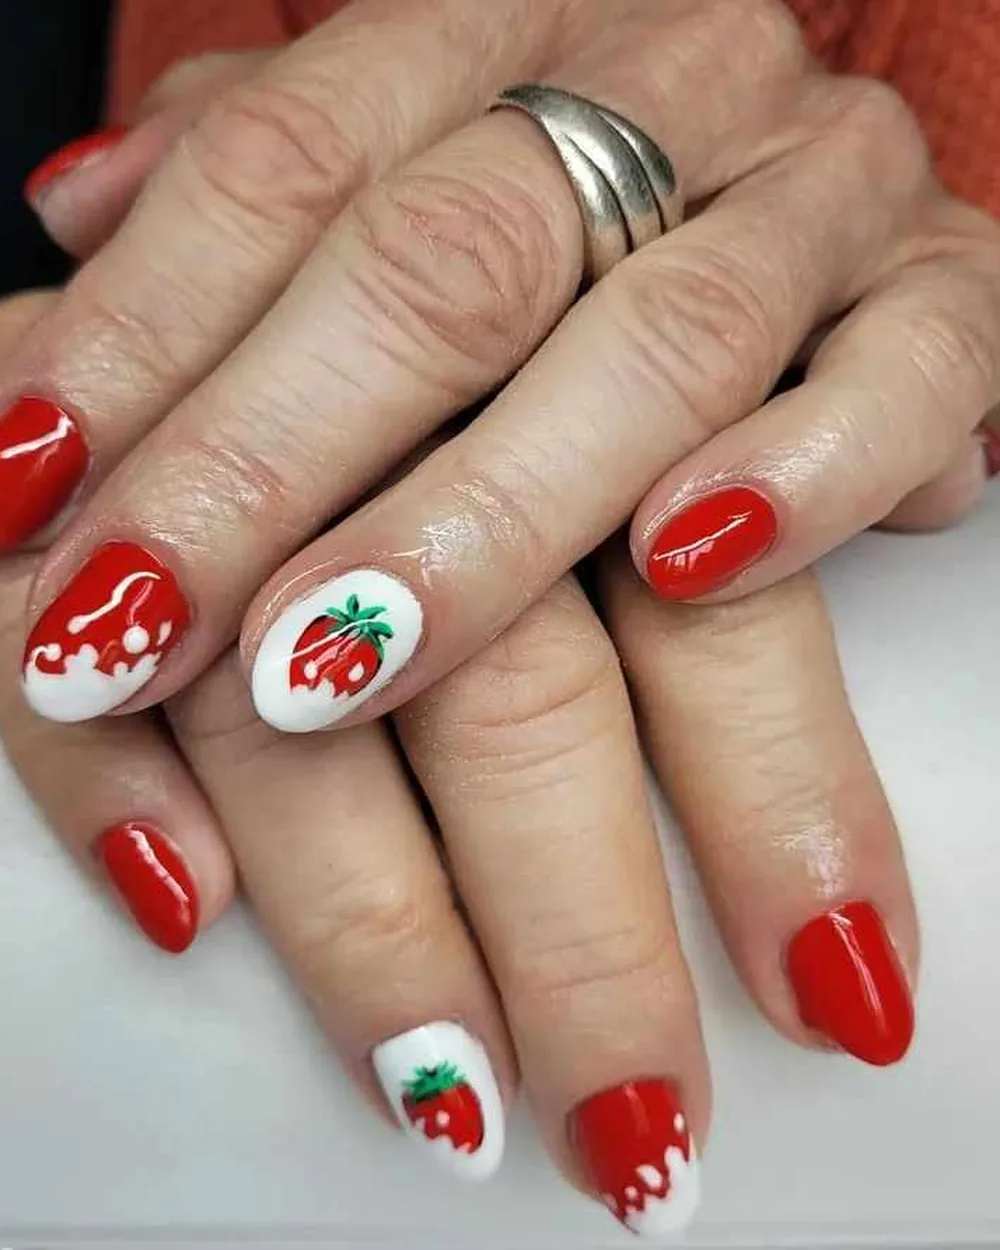
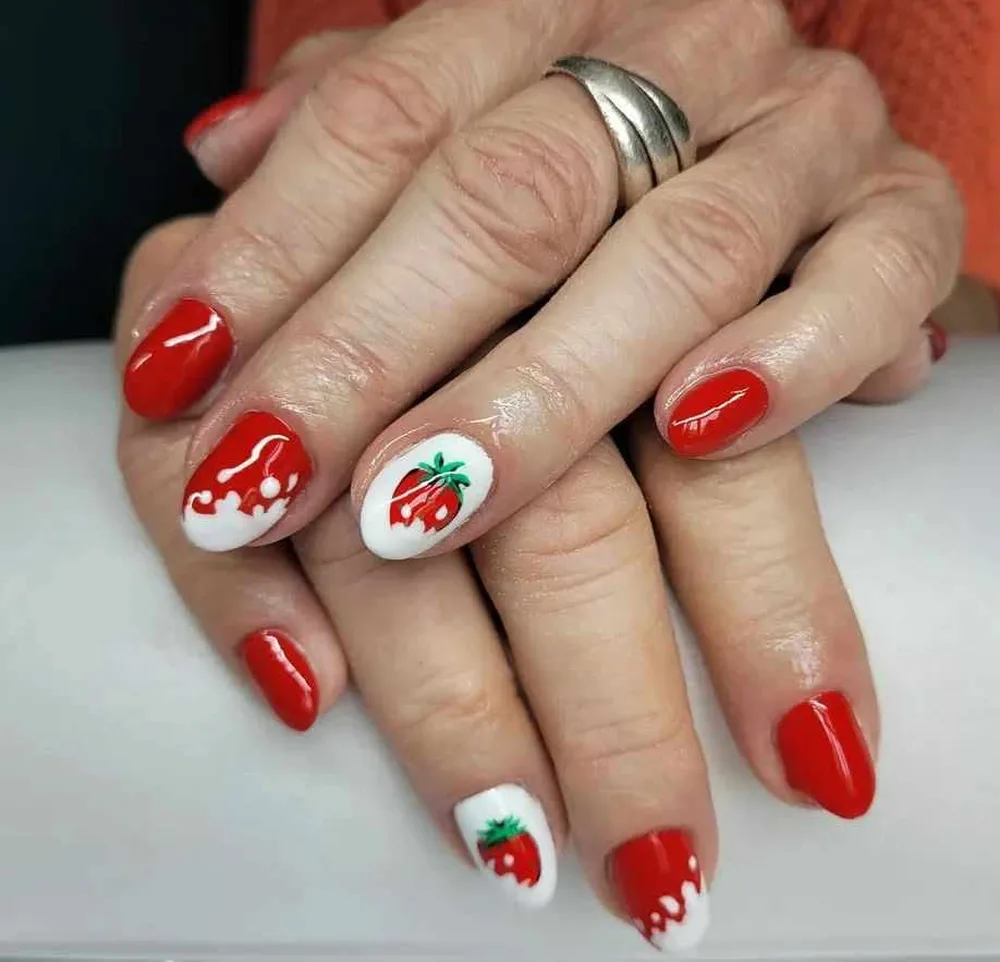
Popraw galerię paznokci i zdjęcia z Buddą wg uwag klientki
Galeria paznokci: nowe, luźniejsze kadry z oryginałów tak, by każdy
paznokieć był widoczny w całości (zmiana proporcji kafelka na 26:25);
8 zdjęć, w których nie dało się tego zapewnić (za wąski/za niski
oryginał albo paznokieć zasłonięty palcem), usunięto z galerii i
pozostałych miejsc, gdzie występowały.

Zdjęcie z Buddą na komodzie: ramki w zabiegi.html, bon.html i
opinie.html zmienione na proporcję pionową (3:4), zdjęcia
wygenerowane na nowo z pełnego oryginału bez kadrowania — widać teraz
całą scenę (obraz na ścianie, figurkę, świecę, komodę).

diff --git a/index.html b/index.html
@@ -136,22 +136,14 @@
   <div class="wrap">
     <h2 id="h-nastroj" class="nastroj__tytul"><span>Prace z&nbsp;naszego <em>salonu</em></span></h2>
     <ul class="nastroj__pas">
-        <li class="nastroj__kadr nastroj__kadr--0"><img src="assets/img/real-paznokcie-zachod-palma-600.webp" srcset="assets/img/real-paznokcie-zachod-palma-300.webp 300w, assets/img/real-paznokcie-zachod-palma-600.webp 600w, assets/img/real-paznokcie-zachod-palma-1000.webp 1000w" sizes="(min-width: 1000px) 190px, (min-width: 700px) 24vw, 37vw" width="600" height="750" alt="Stylizacja paznokci – różowo-pomarańczowe ombre z&nbsp;palmą" loading="lazy" decoding="async"></li>
-        <li class="nastroj__kadr nastroj__kadr--1"><img src="assets/img/real-paznokcie-wisnie-600.webp" srcset="assets/img/real-paznokcie-wisnie-300.webp 300w, assets/img/real-paznokcie-wisnie-600.webp 600w, assets/img/real-paznokcie-wisnie-1000.webp 1000w" sizes="(min-width: 1000px) 190px, (min-width: 700px) 24vw, 37vw" width="600" height="750" alt="Stylizacja paznokci – głęboka czerwień z&nbsp;wisienkami" loading="lazy" decoding="async"></li>
-        <li class="nastroj__kadr nastroj__kadr--0"><img src="assets/img/real-paznokcie-roz-ombre-600.webp" srcset="assets/img/real-paznokcie-roz-ombre-300.webp 300w, assets/img/real-paznokcie-roz-ombre-600.webp 600w, assets/img/real-paznokcie-roz-ombre-1000.webp 1000w" sizes="(min-width: 1000px) 190px, (min-width: 700px) 24vw, 37vw" width="600" height="750" alt="Stylizacja paznokci – delikatne różowe ombre" loading="lazy" decoding="async"></li>
-        <li class="nastroj__kadr nastroj__kadr--1"><img src="assets/img/real-paznokcie-koral-ananas-600.webp" srcset="assets/img/real-paznokcie-koral-ananas-300.webp 300w, assets/img/real-paznokcie-koral-ananas-600.webp 600w, assets/img/real-paznokcie-koral-ananas-1000.webp 1000w" sizes="(min-width: 1000px) 190px, (min-width: 700px) 24vw, 37vw" width="600" height="750" alt="Stylizacja paznokci – koral i&nbsp;turkus z&nbsp;ananasem" loading="lazy" decoding="async"></li>
-        <li class="nastroj__kadr nastroj__kadr--0"><img src="assets/img/real-paznokcie-fuksja-kropki-600.webp" srcset="assets/img/real-paznokcie-fuksja-kropki-300.webp 300w, assets/img/real-paznokcie-fuksja-kropki-600.webp 600w, assets/img/real-paznokcie-fuksja-kropki-1000.webp 1000w" sizes="(min-width: 1000px) 190px, (min-width: 700px) 24vw, 37vw" width="600" height="750" alt="Stylizacja paznokci – fuksja z&nbsp;kropkami" loading="lazy" decoding="async"></li>
-        <li class="nastroj__kadr nastroj__kadr--1"><img src="assets/img/real-paznokcie-roz-neon-kwiat-600.webp" srcset="assets/img/real-paznokcie-roz-neon-kwiat-300.webp 300w, assets/img/real-paznokcie-roz-neon-kwiat-600.webp 600w, assets/img/real-paznokcie-roz-neon-kwiat-1000.webp 1000w" sizes="(min-width: 1000px) 190px, (min-width: 700px) 24vw, 37vw" width="600" height="750" alt="Stylizacja paznokci – neonowy róż z&nbsp;kwiatkiem" loading="lazy" decoding="async"></li>
-        <li class="nastroj__kadr nastroj__kadr--0"><img src="assets/img/real-paznokcie-granat-pajaczek-600.webp" srcset="assets/img/real-paznokcie-granat-pajaczek-300.webp 300w, assets/img/real-paznokcie-granat-pajaczek-600.webp 600w, assets/img/real-paznokcie-granat-pajaczek-1000.webp 1000w" sizes="(min-width: 1000px) 190px, (min-width: 700px) 24vw, 37vw" width="600" height="750" alt="Stylizacja paznokci – granat z&nbsp;pajączkiem" loading="lazy" decoding="async"></li>
-        <li class="nastroj__kadr nastroj__kadr--1"><img src="assets/img/real-paznokcie-czerwien-arbuz-600.webp" srcset="assets/img/real-paznokcie-czerwien-arbuz-300.webp 300w, assets/img/real-paznokcie-czerwien-arbuz-600.webp 600w, assets/img/real-paznokcie-czerwien-arbuz-1000.webp 1000w" sizes="(min-width: 1000px) 190px, (min-width: 700px) 24vw, 37vw" width="600" height="750" alt="Stylizacja paznokci – czerwień z&nbsp;arbuzem" loading="lazy" decoding="async"></li>
-        <li class="nastroj__kadr nastroj__kadr--0"><img src="assets/img/real-paznokcie-neon-owoce-600.webp" srcset="assets/img/real-paznokcie-neon-owoce-300.webp 300w, assets/img/real-paznokcie-neon-owoce-600.webp 600w, assets/img/real-paznokcie-neon-owoce-1000.webp 1000w" sizes="(min-width: 1000px) 190px, (min-width: 700px) 24vw, 37vw" width="600" height="750" alt="Stylizacja paznokci – neonowe kolory z&nbsp;arbuzem i&nbsp;kiwi" loading="lazy" decoding="async"></li>
-        <li class="nastroj__kadr nastroj__kadr--1"><img src="assets/img/real-paznokcie-czerwien-truskawka-600.webp" srcset="assets/img/real-paznokcie-czerwien-truskawka-300.webp 300w, assets/img/real-paznokcie-czerwien-truskawka-600.webp 600w, assets/img/real-paznokcie-czerwien-truskawka-1000.webp 1000w" sizes="(min-width: 1000px) 190px, (min-width: 700px) 24vw, 37vw" width="600" height="750" alt="Stylizacja paznokci – czerwień z&nbsp;truskawką" loading="lazy" decoding="async"></li>
-        <li class="nastroj__kadr nastroj__kadr--0"><img src="assets/img/real-paznokcie-teczowe-600.webp" srcset="assets/img/real-paznokcie-teczowe-300.webp 300w, assets/img/real-paznokcie-teczowe-600.webp 600w, assets/img/real-paznokcie-teczowe-1000.webp 1000w" sizes="(min-width: 1000px) 190px, (min-width: 700px) 24vw, 37vw" width="600" height="750" alt="Stylizacja paznokci – tęczowe neony" loading="lazy" decoding="async"></li>
-        <li class="nastroj__kadr nastroj__kadr--1"><img src="assets/img/real-paznokcie-fiolet-kocie-oko-600.webp" srcset="assets/img/real-paznokcie-fiolet-kocie-oko-300.webp 300w, assets/img/real-paznokcie-fiolet-kocie-oko-600.webp 600w, assets/img/real-paznokcie-fiolet-kocie-oko-1000.webp 1000w" sizes="(min-width: 1000px) 190px, (min-width: 700px) 24vw, 37vw" width="600" height="750" alt="Stylizacja paznokci – fioletowe kocie oko" loading="lazy" decoding="async"></li>
-        <li class="nastroj__kadr nastroj__kadr--0"><img src="assets/img/real-paznokcie-blekit-ombre-600.webp" srcset="assets/img/real-paznokcie-blekit-ombre-300.webp 300w, assets/img/real-paznokcie-blekit-ombre-600.webp 600w, assets/img/real-paznokcie-blekit-ombre-1000.webp 1000w" sizes="(min-width: 1000px) 190px, (min-width: 700px) 24vw, 37vw" width="600" height="750" alt="Stylizacja paznokci – błękitne ombre" loading="lazy" decoding="async"></li>
-        <li class="nastroj__kadr nastroj__kadr--1"><img src="assets/img/real-paznokcie-czerwien-palma-600.webp" srcset="assets/img/real-paznokcie-czerwien-palma-300.webp 300w, assets/img/real-paznokcie-czerwien-palma-600.webp 600w, assets/img/real-paznokcie-czerwien-palma-1000.webp 1000w" sizes="(min-width: 1000px) 190px, (min-width: 700px) 24vw, 37vw" width="600" height="750" alt="Stylizacja paznokci – czerwień z&nbsp;zachodem słońca" loading="lazy" decoding="async"></li>
-        <li class="nastroj__kadr nastroj__kadr--0"><img src="assets/img/real-paznokcie-kobalt-brokat-600.webp" srcset="assets/img/real-paznokcie-kobalt-brokat-300.webp 300w, assets/img/real-paznokcie-kobalt-brokat-600.webp 600w, assets/img/real-paznokcie-kobalt-brokat-1000.webp 1000w" sizes="(min-width: 1000px) 190px, (min-width: 700px) 24vw, 37vw" width="600" height="750" alt="Stylizacja paznokci – kobalt z&nbsp;brokatowym akcentem" loading="lazy" decoding="async"></li>
-        <li class="nastroj__kadr nastroj__kadr--1"><img src="assets/img/real-paznokcie-mieta-granat-600.webp" srcset="assets/img/real-paznokcie-mieta-granat-300.webp 300w, assets/img/real-paznokcie-mieta-granat-600.webp 600w, assets/img/real-paznokcie-mieta-granat-1000.webp 1000w" sizes="(min-width: 1000px) 190px, (min-width: 700px) 24vw, 37vw" width="600" height="750" alt="Stylizacja paznokci – mięta z&nbsp;granatowymi kropkami" loading="lazy" decoding="async"></li>
+        <li class="nastroj__kadr nastroj__kadr--1"><img src="assets/img/real-paznokcie-granat-pajaczek-600.webp" srcset="assets/img/real-paznokcie-granat-pajaczek-300.webp 300w, assets/img/real-paznokcie-granat-pajaczek-600.webp 600w, assets/img/real-paznokcie-granat-pajaczek-1000.webp 1000w" sizes="(min-width: 1000px) 190px, (min-width: 700px) 24vw, 37vw" width="600" height="577" alt="Stylizacja paznokci – granat z&nbsp;pajączkiem" loading="lazy" decoding="async"></li>
+        <li class="nastroj__kadr nastroj__kadr--0"><img src="assets/img/real-paznokcie-teczowe-600.webp" srcset="assets/img/real-paznokcie-teczowe-300.webp 300w, assets/img/real-paznokcie-teczowe-600.webp 600w, assets/img/real-paznokcie-teczowe-1000.webp 1000w" sizes="(min-width: 1000px) 190px, (min-width: 700px) 24vw, 37vw" width="600" height="577" alt="Stylizacja paznokci – tęczowe neony" loading="lazy" decoding="async"></li>
+        <li class="nastroj__kadr nastroj__kadr--1"><img src="assets/img/real-paznokcie-czerwien-truskawka-600.webp" srcset="assets/img/real-paznokcie-czerwien-truskawka-300.webp 300w, assets/img/real-paznokcie-czerwien-truskawka-600.webp 600w, assets/img/real-paznokcie-czerwien-truskawka-1000.webp 1000w" sizes="(min-width: 1000px) 190px, (min-width: 700px) 24vw, 37vw" width="600" height="577" alt="Stylizacja paznokci – czerwień z&nbsp;truskawką" loading="lazy" decoding="async"></li>
+        <li class="nastroj__kadr nastroj__kadr--0"><img src="assets/img/real-paznokcie-czerwien-palma-600.webp" srcset="assets/img/real-paznokcie-czerwien-palma-300.webp 300w, assets/img/real-paznokcie-czerwien-palma-600.webp 600w, assets/img/real-paznokcie-czerwien-palma-1000.webp 1000w" sizes="(min-width: 1000px) 190px, (min-width: 700px) 24vw, 37vw" width="600" height="577" alt="Stylizacja paznokci – czerwień z&nbsp;zachodem słońca" loading="lazy" decoding="async"></li>
+        <li class="nastroj__kadr nastroj__kadr--1"><img src="assets/img/real-paznokcie-fiolet-kocie-oko-600.webp" srcset="assets/img/real-paznokcie-fiolet-kocie-oko-300.webp 300w, assets/img/real-paznokcie-fiolet-kocie-oko-600.webp 600w, assets/img/real-paznokcie-fiolet-kocie-oko-1000.webp 1000w" sizes="(min-width: 1000px) 190px, (min-width: 700px) 24vw, 37vw" width="600" height="577" alt="Stylizacja paznokci – fioletowe kocie oko" loading="lazy" decoding="async"></li>
+        <li class="nastroj__kadr nastroj__kadr--0"><img src="assets/img/real-paznokcie-mieta-granat-600.webp" srcset="assets/img/real-paznokcie-mieta-granat-300.webp 300w, assets/img/real-paznokcie-mieta-granat-600.webp 600w, assets/img/real-paznokcie-mieta-granat-1000.webp 1000w" sizes="(min-width: 1000px) 190px, (min-width: 700px) 24vw, 37vw" width="600" height="577" alt="Stylizacja paznokci – mięta z&nbsp;granatowymi kropkami" loading="lazy" decoding="async"></li>
+        <li class="nastroj__kadr nastroj__kadr--1"><img src="assets/img/real-paznokcie-blekit-ombre-600.webp" srcset="assets/img/real-paznokcie-blekit-ombre-300.webp 300w, assets/img/real-paznokcie-blekit-ombre-600.webp 600w, assets/img/real-paznokcie-blekit-ombre-1000.webp 1000w" sizes="(min-width: 1000px) 190px, (min-width: 700px) 24vw, 37vw" width="600" height="577" alt="Stylizacja paznokci – błękitne ombre" loading="lazy" decoding="async"></li>
+        <li class="nastroj__kadr nastroj__kadr--1"><img src="assets/img/real-paznokcie-kobalt-brokat-600.webp" srcset="assets/img/real-paznokcie-kobalt-brokat-300.webp 300w, assets/img/real-paznokcie-kobalt-brokat-600.webp 600w, assets/img/real-paznokcie-kobalt-brokat-1000.webp 1000w" sizes="(min-width: 1000px) 190px, (min-width: 700px) 24vw, 37vw" width="600" height="577" alt="Stylizacja paznokci – kobalt z&nbsp;brokatowym akcentem" loading="lazy" decoding="async"></li>
     </ul>
     <p class="nastroj__podpis">Zdjęcia prac z&nbsp;salonu Amaris</p>
   </div>

diff --git a/zabiegi.html b/zabiegi.html
@@ -59,7 +59,7 @@
       <p class="wstep">Twarz, oprawa oczu, dłonie, stopy, masaże i&nbsp;depilacja w&nbsp;salonie kosmetycznym w&nbsp;Siemianowicach&nbsp;Śląskich. Przy każdym zabiegu najpierw pytamy, czego potrzebujesz.</p>
     </div>
     <div class="podhero__foto">
-      <div class="luk-rama"><div class="luk luk--szer"><img src="assets/img/naglowek-zabiegi-800.webp" srcset="assets/img/naglowek-zabiegi-800.webp 800w, assets/img/naglowek-zabiegi-1400.webp 1400w" sizes="(min-width: 1240px) 640px, (min-width: 900px) 52vw, calc(100vw - 48px)" width="800" height="533" alt="Gabinet Amaris – kamienna figurka Buddy, złote lustro i&nbsp;zapalona świeca na&nbsp;zielonej ścianie" fetchpriority="high"></div></div>
+      <div class="luk-rama"><div class="luk luk--szer"><img src="assets/img/naglowek-zabiegi-800.webp" srcset="assets/img/naglowek-zabiegi-800.webp 800w, assets/img/naglowek-zabiegi-1400.webp 1400w" sizes="(min-width: 1240px) 640px, (min-width: 900px) 52vw, calc(100vw - 48px)" width="800" height="1067" alt="Gabinet Amaris – kamienna figurka Buddy, złote lustro, zapalona świeca i&nbsp;czarna komoda na&nbsp;zielonej ścianie" fetchpriority="high"></div></div>
 
     </div>
   </div>
@@ -101,7 +101,7 @@
           <p class="umow__tytul">Umów zabieg</p>
           <a class="btn btn--glowny btn--maly" href="tel:+48608713812"><svg class="ikona" aria-hidden="true" focusable="false" xmlns="http://www.w3.org/2000/svg" viewBox="0 0 256 256" fill="currentColor"><path d="M221.59,160.3l-47.24-21.17a14,14,0,0,0-13.28,1.22,4.81,4.81,0,0,0-.56.42l-24.69,21a1.88,1.88,0,0,1-1.68.06c-15.87-7.66-32.31-24-40-39.65a1.91,1.91,0,0,1,0-1.68l21.07-25a6.13,6.13,0,0,0,.42-.58,14,14,0,0,0,1.12-13.27L95.73,34.49a14,14,0,0,0-14.56-8.38A54.24,54.24,0,0,0,34,80c0,78.3,63.7,142,142,142a54.25,54.25,0,0,0,53.89-47.17A14,14,0,0,0,221.59,160.3ZM176,210C104.32,210,46,151.68,46,80A42.23,42.23,0,0,1,82.67,38h.23a2,2,0,0,1,1.84,1.31l21.1,47.11a2,2,0,0,1,0,1.67L84.73,113.15a4.73,4.73,0,0,0-.43.57,14,14,0,0,0-.91,13.73c8.87,18.16,27.17,36.32,45.53,45.19a14,14,0,0,0,13.77-1c.19-.13.38-.27.56-.42l24.68-21a1.92,1.92,0,0,1,1.6-.1l47.25,21.17a2,2,0,0,1,1.21,2A42.24,42.24,0,0,1,176,210Z"/></svg>Zadzwoń</a><a class="btn btn--obrys btn--maly" href="https://m.me/AmarisSalon" target="_blank" rel="noopener"><svg class="ikona" aria-hidden="true" focusable="false" xmlns="http://www.w3.org/2000/svg" viewBox="0 0 256 256" fill="currentColor"><path d="M180.24,107.76a6,6,0,0,1,0,8.48l-32,32a6,6,0,0,1-8.48,0L112,120.49,84.24,148.24a6,6,0,0,1-8.48-8.48l32-32a6,6,0,0,1,8.48,0L144,135.51l27.76-27.75A6,6,0,0,1,180.24,107.76ZM230,128A102,102,0,0,1,79.31,217.65L44.44,229.27a14,14,0,0,1-17.71-17.71l11.62-34.87A102,102,0,1,1,230,128Zm-12,0A90,90,0,1,0,50.08,173.06a6,6,0,0,1,.5,4.91L38.12,215.35a2,2,0,0,0,2.53,2.53L78,205.42a6.2,6.2,0,0,1,1.9-.31,6.09,6.09,0,0,1,3,.81A90,90,0,0,0,218,128Z"/></svg><span>Napisz<span class="dl"> na&nbsp;Messengerze</span></span><span class="sr"> (otwiera się w&nbsp;nowej karcie)</span></a>
         </div>
-        <div class="panel__foto luk-rama"><div class="luk"><img src="assets/img/real-paznokcie-czerwien-truskawka-600.webp" srcset="assets/img/real-paznokcie-czerwien-truskawka-300.webp 300w, assets/img/real-paznokcie-czerwien-truskawka-600.webp 600w, assets/img/real-paznokcie-czerwien-truskawka-1000.webp 1000w" sizes="(min-width: 1240px) 280px, 22vw" width="600" height="750" alt="Manicure w&nbsp;czerwieni z&nbsp;truskawką, wykonany w&nbsp;salonie Amaris" loading="lazy" decoding="async"></div></div>
+        <div class="panel__foto luk-rama"><div class="luk"><img src="assets/img/real-paznokcie-czerwien-palma-panel-600.webp" srcset="assets/img/real-paznokcie-czerwien-palma-panel-300.webp 300w, assets/img/real-paznokcie-czerwien-palma-panel-600.webp 600w, assets/img/real-paznokcie-czerwien-palma-panel-1000.webp 1000w" sizes="(min-width: 1240px) 280px, 22vw" width="600" height="750" alt="Manicure w&nbsp;czerwieni z&nbsp;zachodem słońca, wykonany w&nbsp;salonie Amaris" loading="lazy" decoding="async"></div></div>
         <blockquote class="panel__cytat"><p>„Twoje paznokcie nie zmienią świata, ale kobiety, które je noszą, już tak.”</p></blockquote>
       </div>
       <div class="cennik"><div class="cennik-grupa"><ul class="cennik-lista"><li class="cennik-poz"><span class="cennik-poz__nazwa">Manicure klasyczny</span><span class="cennik-poz__cena">70&nbsp;zł</span></li><li class="cennik-poz"><span class="cennik-poz__nazwa">Manicure japoński</span><span class="cennik-poz__cena">80&nbsp;zł</span></li><li class="cennik-poz"><span class="cennik-poz__nazwa">Pielęgnacja dłoni</span><span class="cennik-poz__cena">60&nbsp;zł</span></li><li class="cennik-poz"><span class="cennik-poz__nazwa">Manicure hybrydowy</span><span class="cennik-poz__cena">110&nbsp;zł</span></li><li class="cennik-poz"><span class="cennik-poz__nazwa">Manicure żelowy</span><span class="cennik-poz__cena">130&nbsp;zł</span></li></ul></div><div class="cennik-grupa"><h3 class="cennik-grupa__tytul">Dopłaty</h3><ul class="cennik-lista"><li class="cennik-poz cennik-poz--dopl"><span class="cennik-poz__nazwa">Lakierowanie</span><span class="cennik-poz__cena">+10&nbsp;zł</span></li><li class="cennik-poz cennik-poz--dopl"><span class="cennik-poz__nazwa">French</span><span class="cennik-poz__cena">+15&nbsp;zł</span></li><li class="cennik-poz cennik-poz--dopl"><span class="cennik-poz__nazwa">Przedłużanie paznokci</span><span class="cennik-poz__cena">+20&nbsp;zł</span></li><li class="cennik-poz cennik-poz--dopl"><span class="cennik-poz__nazwa">Długie paznokcie</span><span class="cennik-poz__cena">+10&nbsp;zł</span></li></ul></div></div>

diff --git a/bon.html b/bon.html
@@ -72,7 +72,7 @@
       <p class="wstep">Zadzwoń albo napisz, a&nbsp;powiemy, jak go zamówić i&nbsp;odebrać.</p>
     </div>
     <div class="jak-siatka">
-      <div class="jak-siatka__foto luk-rama"><div class="luk"><img src="assets/img/real-wnetrze-budda-szeroko-600.webp" srcset="assets/img/real-wnetrze-budda-szeroko-300.webp 300w, assets/img/real-wnetrze-budda-szeroko-600.webp 600w, assets/img/real-wnetrze-budda-szeroko-1000.webp 1000w" sizes="(min-width: 900px) 400px, 92vw" width="600" height="750" alt="Wnętrze gabinetu Amaris z&nbsp;figurką Buddy i&nbsp;lustrem" loading="lazy" decoding="async"></div></div>
+      <div class="jak-siatka__foto luk-rama"><div class="luk"><img src="assets/img/real-wnetrze-budda-szeroko-600.webp" srcset="assets/img/real-wnetrze-budda-szeroko-300.webp 300w, assets/img/real-wnetrze-budda-szeroko-600.webp 600w, assets/img/real-wnetrze-budda-szeroko-1000.webp 1000w" sizes="(min-width: 900px) 400px, 92vw" width="600" height="800" alt="Wnętrze gabinetu Amaris z&nbsp;figurką Buddy, lustrem i&nbsp;komodą" loading="lazy" decoding="async"></div></div>
       <ol class="kroki jak-siatka__kroki">
         <li class="krok"><span class="krok__nr" aria-hidden="true">01</span><h3>Zadzwoń lub napisz</h3><p>Pod numer <a class="tekst-link" href="tel:+48608713812">608&nbsp;713&nbsp;812</a> albo na&nbsp;Messengerze.</p></li>
         <li class="krok"><span class="krok__nr" aria-hidden="true">02</span><h3>Ustalimy szczegóły</h3><p>Podpowiemy, na&nbsp;jaki zabieg albo jaką kwotę wystawić bon.</p></li>
@@ -93,7 +93,7 @@
     <ul class="na-co">
         <li class="na-co__kafel"><span class="na-co__foto luk"><img src="assets/img/real-twarz-stanowisko-600.webp" srcset="assets/img/real-twarz-stanowisko-300.webp 300w, assets/img/real-twarz-stanowisko-600.webp 600w, assets/img/real-twarz-stanowisko-1000.webp 1000w" sizes="(min-width: 1000px) 200px, 38vw" width="600" height="750" alt="Stanowisko do&nbsp;zabiegu na&nbsp;twarz w&nbsp;salonie Amaris" loading="lazy" decoding="async"></span><span class="na-co__nazwa">Zabiegi na&nbsp;twarz</span></li>
         <li class="na-co__kafel"><span class="na-co__foto luk"><img src="assets/img/real-brwi-600.webp" srcset="assets/img/real-brwi-300.webp 300w, assets/img/real-brwi-600.webp 600w, assets/img/real-brwi-1000.webp 1000w" sizes="(min-width: 1000px) 200px, 38vw" width="600" height="750" alt="Brew po&nbsp;regulacji i&nbsp;hennie wykonana w&nbsp;salonie Amaris" loading="lazy" decoding="async"></span><span class="na-co__nazwa">Regulacja i&nbsp;henna brwi</span></li>
-        <li class="na-co__kafel"><span class="na-co__foto luk"><img src="assets/img/real-paznokcie-fiolet-kocie-oko-600.webp" srcset="assets/img/real-paznokcie-fiolet-kocie-oko-300.webp 300w, assets/img/real-paznokcie-fiolet-kocie-oko-600.webp 600w, assets/img/real-paznokcie-fiolet-kocie-oko-1000.webp 1000w" sizes="(min-width: 1000px) 200px, 38vw" width="600" height="750" alt="Manicure w&nbsp;fioletowym kocim oku, wykonany w&nbsp;salonie Amaris" loading="lazy" decoding="async"></span><span class="na-co__nazwa">Manicure</span></li>
+        <li class="na-co__kafel"><span class="na-co__foto luk"><img src="assets/img/real-paznokcie-czerwien-palma-panel-600.webp" srcset="assets/img/real-paznokcie-czerwien-palma-panel-300.webp 300w, assets/img/real-paznokcie-czerwien-palma-panel-600.webp 600w, assets/img/real-paznokcie-czerwien-palma-panel-1000.webp 1000w" sizes="(min-width: 1000px) 200px, 38vw" width="600" height="750" alt="Manicure w&nbsp;czerwieni z&nbsp;zachodem słońca, wykonany w&nbsp;salonie Amaris" loading="lazy" decoding="async"></span><span class="na-co__nazwa">Manicure</span></li>
         <li class="na-co__kafel"><span class="na-co__foto luk"><img src="assets/img/real-pharm-foot-600.webp" srcset="assets/img/real-pharm-foot-300.webp 300w, assets/img/real-pharm-foot-600.webp 600w, assets/img/real-pharm-foot-1000.webp 1000w" sizes="(min-width: 1000px) 200px, 38vw" width="600" height="750" alt="Kosmetyki do&nbsp;pielęgnacji stóp używane w&nbsp;salonie Amaris" loading="lazy" decoding="async"></span><span class="na-co__nazwa">Pedicure</span></li>
         <li class="na-co__kafel"><span class="na-co__foto luk"><img src="assets/img/real-aromaterapia-600.webp" srcset="assets/img/real-aromaterapia-300.webp 300w, assets/img/real-aromaterapia-600.webp 600w, assets/img/real-aromaterapia-1000.webp 1000w" sizes="(min-width: 1000px) 200px, 38vw" width="600" height="750" alt="Olejki do&nbsp;aromaterapii w&nbsp;gabinecie Amaris" loading="lazy" decoding="async"></span><span class="na-co__nazwa">Masaż relaksacyjny</span></li>
     </ul>

diff --git a/assets/css/amaris.css b/assets/css/amaris.css
@@ -391,9 +391,9 @@ main { display: block; padding-bottom: var(--sekcja); }
   margin-inline: calc(var(--pad) * -1); padding-inline: var(--pad); scroll-padding-inline: var(--pad);
 }
 .nastroj__pas::-webkit-scrollbar { display: none; }
-.nastroj__kadr { position: relative; flex: 0 0 34%; aspect-ratio: 4 / 5; overflow: hidden; background: var(--tlo-2); scroll-snap-align: start; }
+.nastroj__kadr { position: relative; flex: 0 0 34%; aspect-ratio: 26 / 25; overflow: hidden; background: var(--tlo-2); scroll-snap-align: start; }
 .nastroj__kadr img { width: 100%; height: 100%; object-fit: cover; }
-/* jeden rytm: łuk – prostokąt – łuk…, wszystkie kadry 4:5 */
+/* łuk tylko tam, gdzie wzorek nie dotyka górnych rogów maski; wszystkie kadry 26:25 */
 .nastroj__kadr--0 { border-radius: var(--luk); }
 .nastroj__kadr--1 { border-radius: var(--r); }
 @media (min-width: 700px) {
@@ -551,6 +551,8 @@ main { display: block; padding-bottom: var(--sekcja); }
 }
 .zaproszenie__foto { position: relative; width: 148px; margin: 14px 14px 14px 0; }
 .zaproszenie__foto .luk { aspect-ratio: 4 / 5; }
+/* zdjęcie z Buddą (opinie.html) jest pionowe – 4:5 ucinałoby komodę/lustro */
+.s-opinie .zaproszenie__foto .luk { aspect-ratio: 3 / 4; }
 .zaproszenie__tekst { display: grid; justify-items: center; }
 .zaproszenie .orn { margin-bottom: 14px; }
 .zaproszenie p { margin-top: 12px; color: var(--tekst-2); max-width: 30em; }
@@ -587,6 +589,8 @@ main { display: block; padding-bottom: var(--sekcja); }
 .podhero__foto { position: relative; }
 .podhero__foto .luk-rama { --ksztalt: var(--luk-szer); }
 .podhero__foto .luk { aspect-ratio: 3 / 2; }
+/* zdjęcie z Buddą (zabiegi.html) jest pionowe – nie mieści się w poziomym 3:2 bez ucinania figurki/komody */
+.s-zabiegi .podhero__foto .luk { aspect-ratio: 3 / 4; }
 @media (min-width: 900px) {
   .podhero { padding-top: 40px; }
   .podhero__siatka { grid-template-columns: 5fr 7fr; gap: 72px; align-items: center; }
@@ -679,13 +683,13 @@ main { display: block; padding-bottom: var(--sekcja); }
 .jak-glowa .wstep { margin-top: 12px; }
 .jak-siatka { display: grid; gap: 28px; }
 .jak-siatka__foto { --ksztalt: var(--luk-szer); }
-.jak-siatka__foto .luk { aspect-ratio: 16 / 9; }
+.jak-siatka__foto .luk { aspect-ratio: 3 / 4; }
 .jak-siatka__kroki { align-self: center; }
 @media (min-width: 900px) {
   .jak-glowa { max-width: 44em; margin-bottom: 48px; }
   .jak-siatka { grid-template-columns: 5fr 7fr; gap: 96px; align-items: center; }
   .jak-siatka__foto { --ksztalt: var(--luk); max-width: 400px; }
-  .jak-siatka__foto .luk { aspect-ratio: 4 / 5; }
+  .jak-siatka__foto .luk { aspect-ratio: 3 / 4; }
 }
 .kroki { list-style: none; display: grid; }
 .krok { display: grid; grid-template-columns: 48px 1fr; gap: 4px 14px; padding: 18px 0; border-top: 1px solid var(--linia); }

diff --git a/opinie.html b/opinie.html
@@ -183,7 +183,7 @@
 <section class="sekcja reveal" aria-labelledby="h-zaproszenie">
   <div class="wrap">
     <div class="zaproszenie">
-      <div class="zaproszenie__foto luk-rama"><div class="luk"><img src="assets/img/real-wnetrze-budda-szeroko-600.webp" srcset="assets/img/real-wnetrze-budda-szeroko-300.webp 300w, assets/img/real-wnetrze-budda-szeroko-600.webp 600w, assets/img/real-wnetrze-budda-szeroko-1000.webp 1000w" sizes="(min-width: 900px) 340px, 148px" width="600" height="750" alt="Wnętrze gabinetu Amaris z&nbsp;figurką Buddy i&nbsp;lustrem" loading="lazy" decoding="async"></div></div>
+      <div class="zaproszenie__foto luk-rama"><div class="luk"><img src="assets/img/real-wnetrze-budda-szeroko-600.webp" srcset="assets/img/real-wnetrze-budda-szeroko-300.webp 300w, assets/img/real-wnetrze-budda-szeroko-600.webp 600w, assets/img/real-wnetrze-budda-szeroko-1000.webp 1000w" sizes="(min-width: 900px) 340px, 148px" width="600" height="800" alt="Wnętrze gabinetu Amaris z&nbsp;figurką Buddy, lustrem i&nbsp;komodą" loading="lazy" decoding="async"></div></div>
       <div class="zaproszenie__tekst">
         <div class="orn " aria-hidden="true"><span></span><svg class="orn__znak" viewBox="0 0 24 24" aria-hidden="true" focusable="false"><path d="M12 3c-2.2 3.4-3.4 5.6-3.4 7.4a3.4 3.4 0 0 0 6.8 0C15.4 8.6 14.2 6.4 12 3z" fill="currentColor"/><path d="M5 21v-6a7 7 0 0 1 14 0v6" fill="none" stroke="currentColor" stroke-width=".9"/></svg><span></span></div>
         <h2 id="h-zaproszenie">Zapraszamy do&nbsp;<em>Amaris</em></h2>
